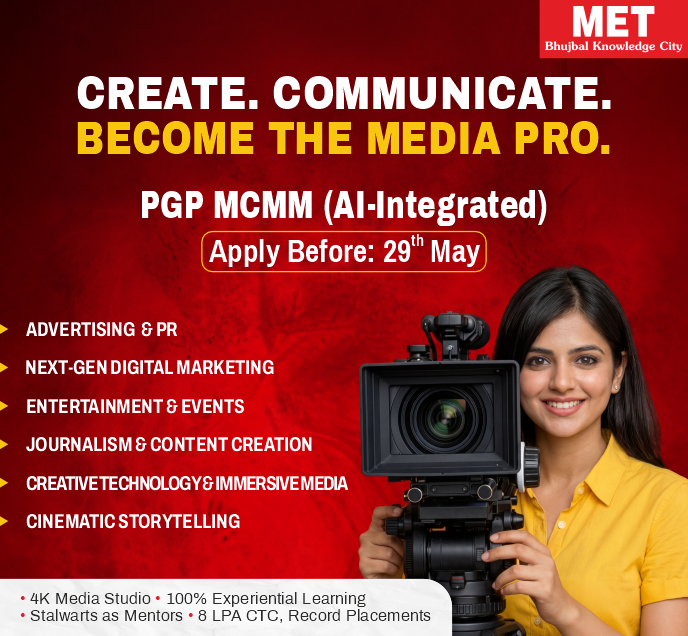
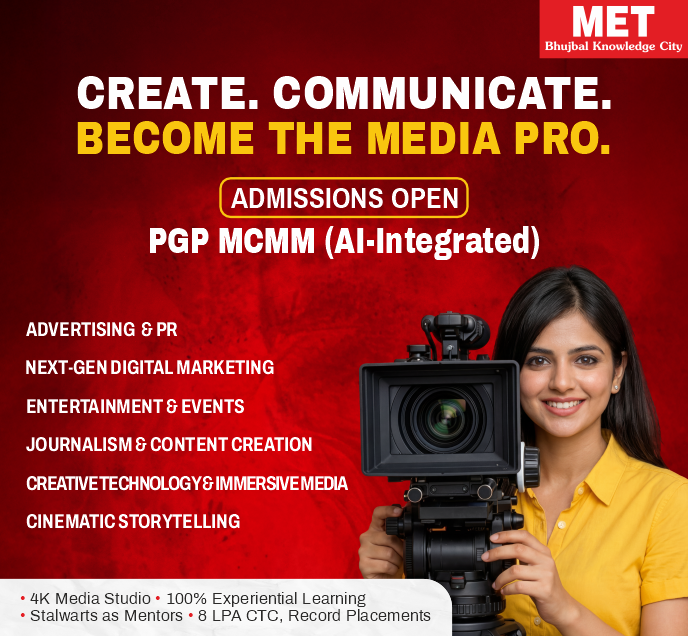
Add collaboration section with Chlorosynth and update image files

diff --git a/assets/component/content.php b/assets/component/content.php
@@ -588,6 +588,30 @@
 <br>
 <!--------------- MET Media Collective section ------------------->
 
+<!--------------- Collaboration with Chlorosynth ------------------->
+
+<section class="mmc-sec nav-link" id="met-media-collective">
+    <div class="container">
+        <div class="row align-items-start g-4">
+            <div class="col-lg-12">
+                <div class="sec_title text-start">
+                    <h2><span>Collaboration with Chlorosynth</span></h2>
+                </div>
+
+                <p class="mmc-text">
+                    The Institute has collaborated with Clorosynth, founded by Tridib Ghosh, an AI-powered branding, strategy, and creative studio with expertise spanning advertising, UX/UI, design thinking, and Generative AI.
+                </p>
+                <p class="mmc-text">
+                    This strategic collaboration marks an important step towards building a future-ready learning ecosystem where Artificial Intelligence becomes an integral part of media, communication, journalism, advertising, branding, and content creation education.
+                </p>
+            </div>
+        </div>
+    </div>
+</section>
+
+<br>
+<!--------------- Collaboration with Chlorosynth ------------------->
+
 <!---------------- Life @ MET IMM section -------------->
 
 <section class="life-imm" id="life-imm">
